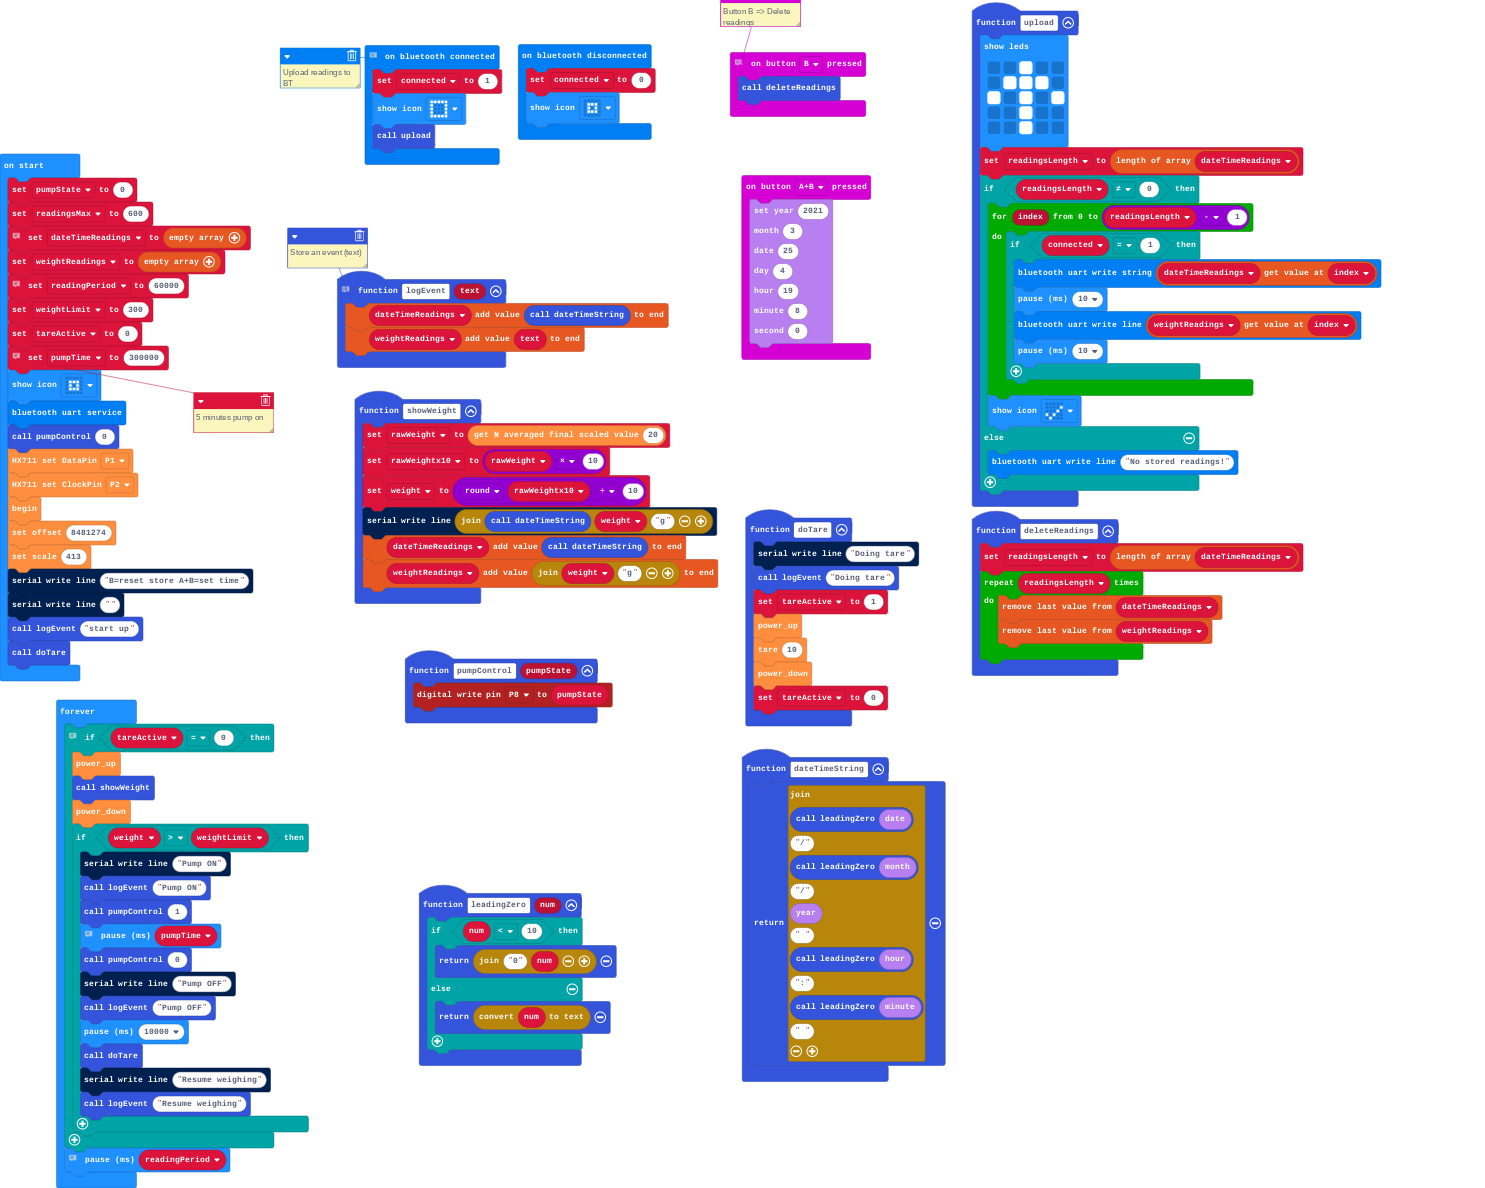
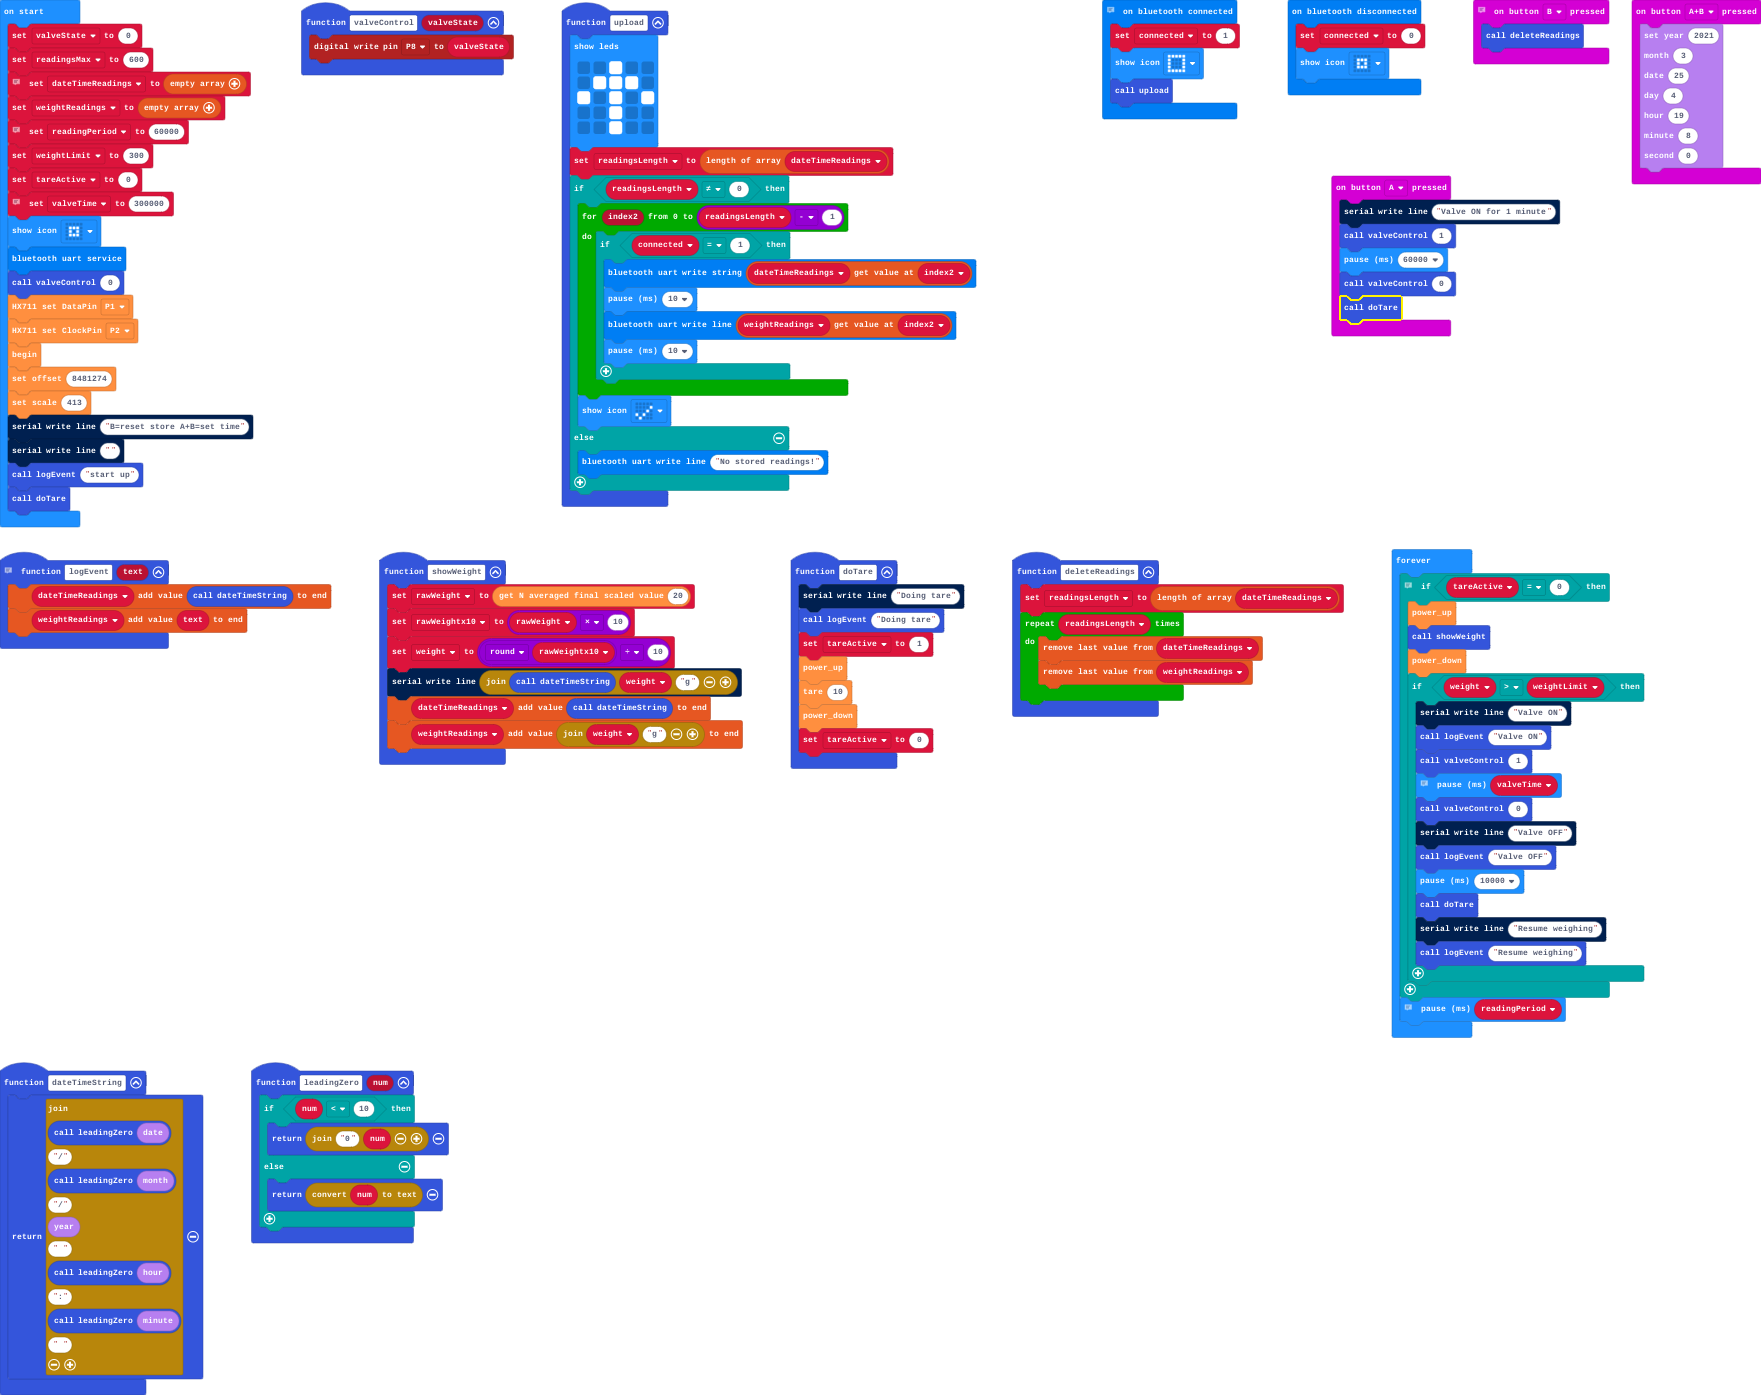
Changed pump to valve. Added button A to switch valve on for 1 minute

diff --git a/main.ts b/main.ts
@@ -15,9 +15,6 @@ function showWeight () {
     dateTimeReadings.push(dateTimeString())
     weightReadings.push("" + weight + "g")
 }
-function pumpControl (pumpState: number) {
-    pins.digitalWritePin(DigitalPin.P8, pumpState)
-}
 function deleteReadings () {
     readingsLength = dateTimeReadings.length
     for (let index = 0; index < readingsLength; index++) {
@@ -42,6 +39,13 @@ bluetooth.onBluetoothDisconnected(function () {
     connected = 0
     basic.showIcon(IconNames.SmallSquare)
 })
+input.onButtonPressed(Button.A, function () {
+    serial.writeLine("Valve ON for 1 minute")
+    valveControl(1)
+    basic.pause(60000)
+    valveControl(0)
+    doTare()
+})
 // Store an event (text)
 function logEvent (text: string) {
     dateTimeReadings.push(dateTimeString())
@@ -60,11 +64,11 @@ function upload () {
         `)
     readingsLength = dateTimeReadings.length
     if (readingsLength != 0) {
-        for (let index = 0; index <= readingsLength - 1; index++) {
+        for (let index2 = 0; index2 <= readingsLength - 1; index2++) {
             if (connected == 1) {
-                bluetooth.uartWriteString(dateTimeReadings[index])
+                bluetooth.uartWriteString(dateTimeReadings[index2])
                 basic.pause(10)
-                bluetooth.uartWriteLine(weightReadings[index])
+                bluetooth.uartWriteLine(weightReadings[index2])
                 basic.pause(10)
             }
         }
@@ -88,6 +92,9 @@ input.onButtonPressed(Button.AB, function () {
 input.onButtonPressed(Button.B, function () {
     deleteReadings()
 })
+function valveControl (valveState: number) {
+    pins.digitalWritePin(DigitalPin.P8, valveState)
+}
 let connected = 0
 let readingsLength = 0
 let weight = 0
@@ -96,7 +103,7 @@ let rawWeight = 0
 let tareActive = 0
 let weightReadings: string[] = []
 let dateTimeReadings: string[] = []
-let pumpState = 0
+let valveState = 0
 let readingsMax = 600
 // storage
 dateTimeReadings = []
@@ -105,12 +112,11 @@ weightReadings = []
 let readingPeriod = 60000
 let weightLimit = 300
 tareActive = 0
-// 5 minutes pump on
-// 
-let pumpTime = 300000
+// 5 minutes valve on
+let valveTime = 300000
 basic.showIcon(IconNames.SmallSquare)
 bluetooth.startUartService()
-pumpControl(0)
+valveControl(0)
 HX711.SetPIN_DOUT(DigitalPin.P1)
 HX711.SetPIN_SCK(DigitalPin.P2)
 HX711.begin()
@@ -127,14 +133,14 @@ basic.forever(function () {
         showWeight()
         HX711.power_down()
         if (weight > weightLimit) {
-            serial.writeLine("Pump ON")
-            logEvent("Pump ON")
-            pumpControl(1)
+            serial.writeLine("Valve ON")
+            logEvent("Valve ON")
+            valveControl(1)
             // Delay of ~1-2s is important
-            basic.pause(pumpTime)
-            pumpControl(0)
-            serial.writeLine("Pump OFF")
-            logEvent("Pump OFF")
+            basic.pause(valveTime)
+            valveControl(0)
+            serial.writeLine("Valve OFF")
+            logEvent("Valve OFF")
             basic.pause(10000)
             doTare()
             serial.writeLine("Resume weighing")
